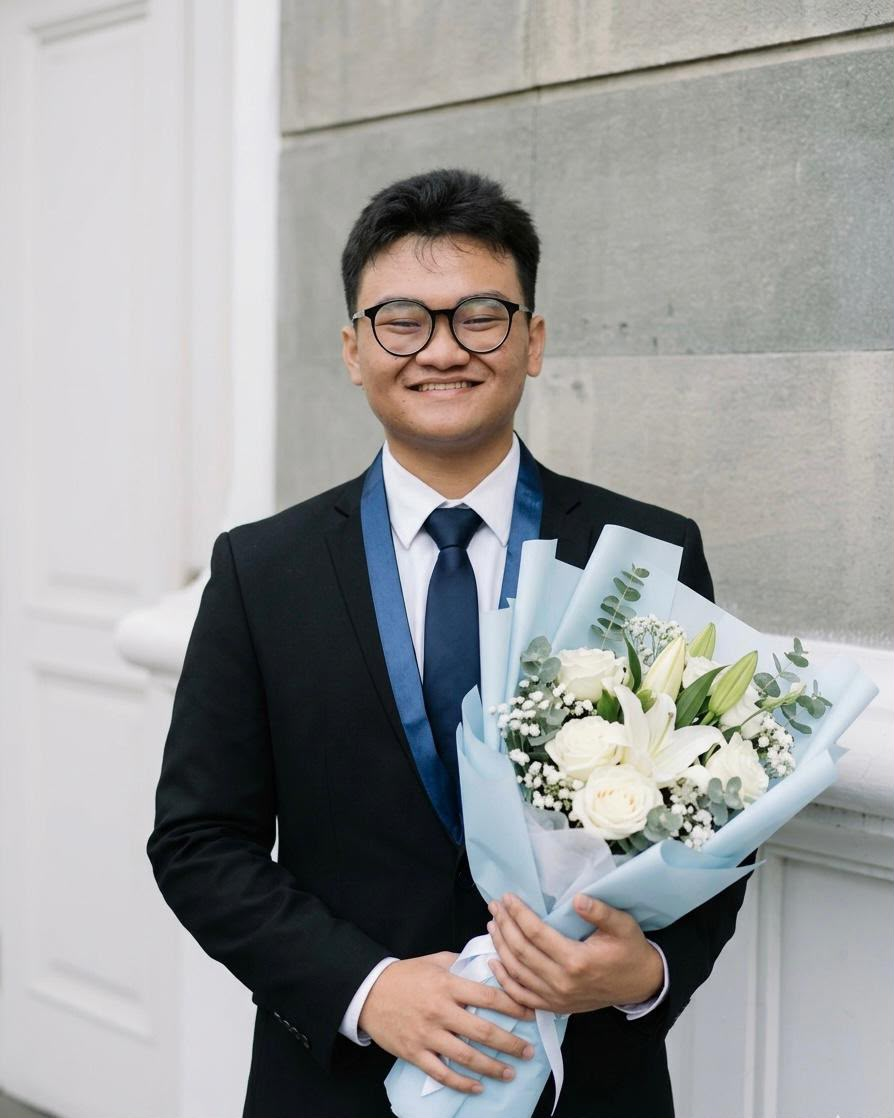
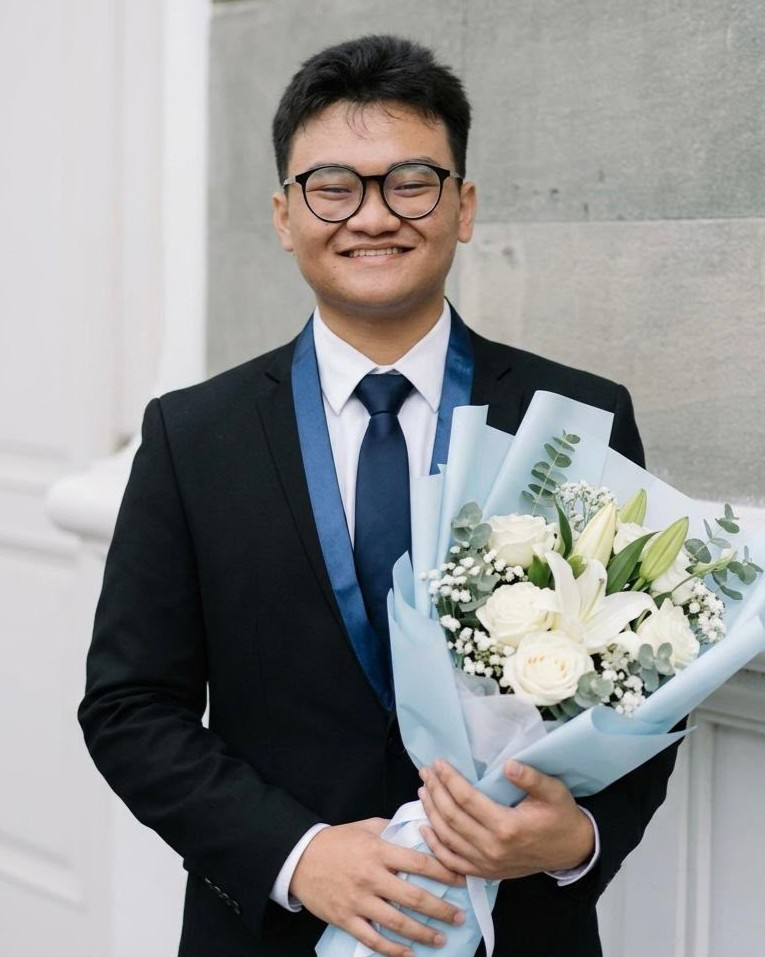
Update portfolio

diff --git a/src/App.jsx b/src/App.jsx
@@ -127,7 +127,7 @@ export default function App() {
             </motion.h1>
             
             <motion.p variants={itemVariants} className="hero-subtitle" style={{ maxWidth: "540px", fontSize: "1.05rem", lineHeight: "1.7" }}>
-              Hi! I'm Nabil Muhammad Ghifari, a Computer Science student pursuing an advanced specialization in Artificial Intelligence. I’m passionate about exploring the intersection of UI/UX Design, Software Development, and Artificial Intelligence to create digital products that feel intuitive, purposeful, and engaging. From designing interfaces to developing intelligent solutions, I enjoy transforming ideas into meaningful products through a balance of creativity, technology, and user-centered thinking.
+              Hi! I'm Nabil Muhammad Ghifari, a Computer Science student specializing in Artificial Intelligence. I’m passionate about merging UI/UX design and Software Development to build intuitive, user-centered digital experiences.
             </motion.p>
             
             <motion.div variants={itemVariants} className="btn-group">
